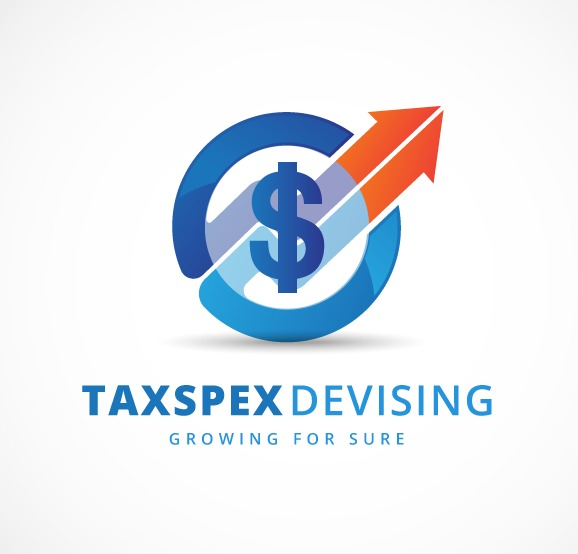
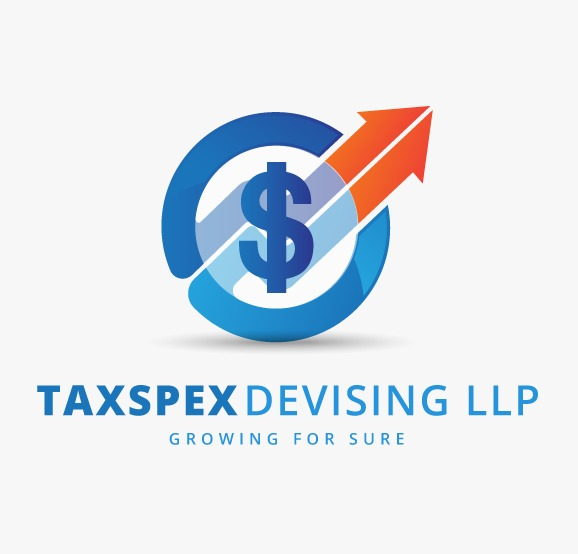
07/10/2021

diff --git a/incomeTax.html b/incomeTax.html
@@ -113,23 +113,22 @@
 
                         <div class="col-lg-4 col-md-6 d-flex align-items-stretch" data-aos="zoom-in">
                           <div class="member">
-                            <h3><i class="fa fa-desktop color"></i>&nbsp; TDS Return and TCS Return</h3>
+                            <h3><i class="fa fa-desktop color"></i>&nbsp; PF registration</h3>
                             <!-- Paragraph -->
                             <p>
-                              Tax Deducted at Source or TDS is a type of advance tax which is deducted from the earnings of an individual or an organization before the money is actually credited into that entity’s account, according to the Indian Taxation Code. The government is able to generate revenues by implementing the provisions of TDS on the earnings of individuals as well as businesses. Rules and regulations regarding TDS are controlled and governed under the Income Tax Act, 1961 by the Central Board of Direct Taxes (CBDT).As the name suggests, “Tax Deducted at Source” implies that the payee or the employer deducts the tax before making a payment to the receiver. Tax Deducted at Source is applicable on income earned regularly and also on the income earned occasionally or irregularly. Thus, TDS is applicable on various incomes, including, but not limited to Salary, Commission, Rent, Professional Fees and Interest.
+                              Employees Provident Fund is a scheme for the Indian Employees that is controlled by the Provident Funds and Miscellaneous Provisions Act,1952. The Employee Provident Fund is regulated under the umbrella of Employees Provident Fund Organization popularly known as EPFO. All establishments that have employed 20 or more than 20 employees can apply for PF registration in India. In some cases subject to the circumstances and the exemption establishments employing less than 20 are still eligible for PF registration. The Employee gets an amount that includes the self and employer’s contribution with interest on retirement or resignation.
                             </p>
                           </div>
                         </div>
-              
                       </div>
 
                       <div class="row">
                         <div class="col-lg-4 col-md-6 d-flex align-items-stretch" data-aos="zoom-in">
                           <div class="member">
-                            <h3><i class="fa fa-desktop color"></i>&nbsp; PF registration</h3>
+                            <h3><i class="fa fa-desktop color"></i>&nbsp; PF return</h3>
                             <!-- Paragraph -->
                             <p>
-                              Employees Provident Fund is a scheme for the Indian Employees that is controlled by the Provident Funds and Miscellaneous Provisions Act,1952. The Employee Provident Fund is regulated under the umbrella of Employees Provident Fund Organization popularly known as EPFO. All establishments that have employed 20 or more than 20 employees can apply for PF registration in India. In some cases subject to the circumstances and the exemption establishments employing less than 20 are still eligible for PF registration. The Employee gets an amount that includes the self and employer’s contribution with interest on retirement or resignation.
+                              Provident fund return must be filed by all entities having PF registration every month. PF return is due on the 25th of each month. Further, a final PF return is due on the 25th of April for the year ended on 31st March.
                             </p>
                           </div>
                         </div>
@@ -163,12 +162,12 @@
                             <!-- Paragraph -->
                             <p style="text-align: left;">
                               <b>A)</b> Intimation under Section 143(1)when the return is processed by the department then the intimation under sec. 143(1) is issued by CPC reflecting any of the three situations:If there is more tax liability to be paid, need to be paid within 30 days of receiving the demand.If any additional refund is determined.If the return filed matches with the assessment of AO and no action is required. Income is computed by the AO after making the following adjustments to the total income –Any arithmetical error.An incorrect claim.Dis-allowance of incorrectly loss or expenses.Any income not included.No intimation under this sub section shall be sent after the expiry of one year from the end of the financial year in which the return made.
-                              <br><b>B)</b> Notice under Section 139(9)– Defective Return –Return can be considered as defective by the Assessing officer. The defect can be are as follows: –Wrong ITR filed.Missing Information.Incomplete Return.If the AO consider the return as defective return, then he will intimate the same and gave the opportunity to rectify the defect within 15 days from the date of such intimation.If the defect is not rectified within the given period, then the return will be considered as invalid return and it will be deemed that no return has been filed.
-                              <br><b>C)</b> Notice under Section 142(1) – Inquiry before assessment –A notice under this section can be issued under these situations: –If the return has filed, but the Assessing officer requires additional information and documents for the purpose of making an assessment.If the return has not filed, but the Assessing officer wants the return to be filed.The basic purpose is to ask the details of the assessee before making the assessment. It is served to ask for the documents and details from the assessee and to take that case under assessment.AO may or may not start the assessment after compliance with this notice, depends upon the documents served by the assessee. If the AO is satisfied with the documents or return, he may not start the assessment process.To comply with this notice is mandatory even if the assessee thinks that the accounts or the documents required are irrelevant.
-                              <br><b>D)</b> Notice under Section 143(2) – Scrutiny Notice –If the Assessing Officer is not satisfied with the produced documents or with the responses of the assessee against income tax notice u/s 142(1) then you will get the Notice u/s 143(2) which means that your return has been selected for the detailed scrutiny by AO. AO may ask the assessee to either attend his office himself or produce the relevant supporting, and evidences in support of his claim.
-                              <br><b>E)</b> Notice under Section 148 – Income escaping assessment –If the AO has reason to believe that the assessee has not disclosed the income correctly or have paid the lower taxes or have not filed the return then in all cases it is termed as Income escaping assessment. Under these situations, AO assess or reassess the Income, as the case may be.To initiate the proceedings u/s 147, AO should serve a notice u/s 148.
-                              <br><b>F)</b> Notice under Section 156 – Notice of Demand –Where any tax, interest, penalty, fine or any other sum is payable in respect of any order passed, then the AO serve the notice u/s 156 to the assesse specifying the sum so payable.Assessee can deposit the amount payable within 30 days from the date of Income tax notice.There is no time limit to serve this notice.
-                              <br><b>G)</b> Notice under Section 245 – Set off Refunds against tax remaining payable –Notice u/s 245 is issued when the tax refund for an AY is adjusted against the tax demand dur from the assessee. There is no time limit to serve this notice.
+                              <br><br><b>B)</b> Notice under Section 139(9)– Defective Return –Return can be considered as defective by the Assessing officer. The defect can be are as follows: –Wrong ITR filed.Missing Information.Incomplete Return.If the AO consider the return as defective return, then he will intimate the same and gave the opportunity to rectify the defect within 15 days from the date of such intimation.If the defect is not rectified within the given period, then the return will be considered as invalid return and it will be deemed that no return has been filed.
+                              <br><br><b>C)</b> Notice under Section 142(1) – Inquiry before assessment –A notice under this section can be issued under these situations: –If the return has filed, but the Assessing officer requires additional information and documents for the purpose of making an assessment.If the return has not filed, but the Assessing officer wants the return to be filed.The basic purpose is to ask the details of the assessee before making the assessment. It is served to ask for the documents and details from the assessee and to take that case under assessment.AO may or may not start the assessment after compliance with this notice, depends upon the documents served by the assessee. If the AO is satisfied with the documents or return, he may not start the assessment process.To comply with this notice is mandatory even if the assessee thinks that the accounts or the documents required are irrelevant.
+                              <br><br><b>D)</b> Notice under Section 143(2) – Scrutiny Notice –If the Assessing Officer is not satisfied with the produced documents or with the responses of the assessee against income tax notice u/s 142(1) then you will get the Notice u/s 143(2) which means that your return has been selected for the detailed scrutiny by AO. AO may ask the assessee to either attend his office himself or produce the relevant supporting, and evidences in support of his claim.
+                              <br><br><b>E)</b> Notice under Section 148 – Income escaping assessment –If the AO has reason to believe that the assessee has not disclosed the income correctly or have paid the lower taxes or have not filed the return then in all cases it is termed as Income escaping assessment. Under these situations, AO assess or reassess the Income, as the case may be.To initiate the proceedings u/s 147, AO should serve a notice u/s 148.
+                              <br><br><b>F)</b> Notice under Section 156 – Notice of Demand –Where any tax, interest, penalty, fine or any other sum is payable in respect of any order passed, then the AO serve the notice u/s 156 to the assesse specifying the sum so payable.Assessee can deposit the amount payable within 30 days from the date of Income tax notice.There is no time limit to serve this notice.
+                              <br><br><b>G)</b> Notice under Section 245 – Set off Refunds against tax remaining payable –Notice u/s 245 is issued when the tax refund for an AY is adjusted against the tax demand dur from the assessee. There is no time limit to serve this notice.
                               </p>
                           </div>
                         </div>
@@ -190,7 +189,7 @@
   
             <div class="col-lg-4 col-md-6">
               <div class="footer-info">
-                <h3>Tax Spex</h3>
+                <h3>Tax Spex Devising (LLP)</h3>
                 <p>
                   Telangkhedi, Ramnagar,<br>
                   Nagpur 440010<br><br>
@@ -198,11 +197,9 @@
                   <strong>Email:</strong> info@taxspexdevising.com<br>
                 </p>
                 <div class="social-links mt-3">
-                  <a href="#" class="twitter"><i class="bx bxl-twitter"></i></a>
-                  <a href="#" class="facebook"><i class="bx bxl-facebook"></i></a>
-                  <a href="#" class="instagram"><i class="bx bxl-instagram"></i></a>
-                  <a href="#" class="google-plus"><i class="bx bxl-skype"></i></a>
-                  <a href="#" class="linkedin"><i class="bx bxl-linkedin"></i></a>
+                  <a href="https://www.facebook.com/sharer/sharer.php?u=http://taxspexdevising.com/" target="_blank" class="facebook"><i class="bx bxl-facebook"></i></a>
+                  <a href="https://www.instagram.com/?url=http://taxspexdevising.com/" target="_blank" class="instagram"><i class="bx bxl-instagram"></i></a>
+                  <a href="whatsapp://send?text=http://taxspexdevising.com/" target="_blank" action="share/whatsapp/share"  class="google-plus"><i class="bx bxl-whatsapp"></i></a>
                 </div>
               </div>
             </div>

diff --git a/index.html b/index.html
@@ -33,7 +33,7 @@
     <div class="container d-flex align-items-center justify-content-between">
 
       <h1 class="logo">
-        <img src="assets/img/mainlogo.jpg" alt="" class="img-fluid" />&nbsp;
+        <img src="assets/img/mainlogo.jpeg" alt="" class="img-fluid" />&nbsp;
         <img src="assets/img/taxlogo.jpeg" alt="" class="img-fluid" />
         <!-- <a href="index.html">TaxSpex Devising</a></h1> -->
       <!-- Uncomment below if you prefer to use an image logo -->
@@ -79,7 +79,7 @@
   <section id="hero" class="d-flex align-items-center">
     <div class="container position-relative" data-aos="fade-up" data-aos-delay="500">
       <h1>Get Your Business Registered Today</h1>
-      <h2>taxspexdevising.com Has been giving best consulation to top INDIA's Finance companies since 2018</h2>
+      <h2>TaxSpexDevising(LLP) Has been giving best consulation to top Finance companies since 2018</h2>
       <!-- <a href="#about" class="btn-get-started scrollto">Get Started</a> -->
     </div>
   </section>
@@ -165,7 +165,7 @@ individuals such as tax filing and legal services.
     <!-- End Why Us Section -->
 
     <!-- ======= Clients Section ======= -->
-    <section id="clients" class="clients">
+    <!-- <section id="clients" class="clients">
       <div class="container" data-aos="zoom-in">
 
         <div class="row d-flex align-items-center">
@@ -197,7 +197,7 @@ individuals such as tax filing and legal services.
         </div>
 
       </div>
-    </section>
+    </section> -->
     <!-- End Clients Section -->
 
     <!-- ======= Cta Section ======= -->
@@ -245,7 +245,7 @@ individuals such as tax filing and legal services.
 
           <div class="col-lg-4 col-md-6 d-flex align-items-stretch" data-aos="zoom-in">
             <div class="member">
-              <img src="assets/img/team/team-3.jpg" alt="">
+              <img src="assets/img/team/AbhijeetK.jpg" alt="">
               <h4>Abhijeet B. Karmore</h4>
               <span>(  LLB  )</span>
               <span><b>Company Secretary</b></span>
@@ -263,7 +263,7 @@ individuals such as tax filing and legal services.
 
           <div class="col-lg-4 col-md-6 d-flex align-items-stretch" data-aos="zoom-in">
             <div class="member">
-              <img src="assets/img/team/team-2.jpg" alt="">
+              <img src="assets/img/team/SayliK.png" alt="">
               <h4>Sayli Karmore</h4>
               <span>(  B.com  )</span>
               <span><b>Chartered Accountant</b></span>
@@ -371,7 +371,7 @@ individuals such as tax filing and legal services.
 
           <div class="col-lg-4 col-md-6">
             <div class="footer-info">
-              <h3>Tax Spex</h3>
+              <h3>Tax Spex Devising (LLP)</h3>
               <p>
                 Telangkhedi, Ramnagar,<br>
                 Nagpur 440010<br><br>
@@ -379,11 +379,9 @@ individuals such as tax filing and legal services.
                 <strong>Email:</strong> info@taxspexdevising.com<br>
               </p>
               <div class="social-links mt-3">
-                <a href="#" class="twitter"><i class="bx bxl-twitter"></i></a>
-                <a href="#" class="facebook"><i class="bx bxl-facebook"></i></a>
-                <a href="#" class="instagram"><i class="bx bxl-instagram"></i></a>
-                <a href="#" class="google-plus"><i class="bx bxl-skype"></i></a>
-                <a href="#" class="linkedin"><i class="bx bxl-linkedin"></i></a>
+                <a href="https://www.facebook.com/sharer/sharer.php?u=http://taxspexdevising.com/" target="_blank" class="facebook"><i class="bx bxl-facebook"></i></a>
+                <a href="https://www.instagram.com/?url=http://taxspexdevising.com/" target="_blank" class="instagram"><i class="bx bxl-instagram"></i></a>
+                <a href="whatsapp://send?text=http://taxspexdevising.com/" target="_blank" action="share/whatsapp/share"  class="google-plus"><i class="bx bxl-whatsapp"></i></a>
               </div>
             </div>
           </div>

diff --git a/other.html b/other.html
@@ -98,7 +98,7 @@
               
                         <div class="col-lg-6 col-md-6 d-flex align-items-stretch" data-aos="zoom-in">
                           <div class="member">
-                            <h3><i class="fa fa-desktop color"></i>&nbsp; Legal Advisory for Individual and Company (Part 2)</h3>
+                            <h3><i class="fa fa-desktop color"></i>&nbsp; Legal Advisory for Individual and Company</h3>
                             <!-- Paragraph -->
                             <p>
                                 Legal Services are the services involving legal or law related matters like issue of legal opinion, filing, pleading and defending law suits etc. by a lawyer or attorney practicing law related services and we also provide arbitrator and consultation services and our services include Criminal Law, Corporate Law, Civil Law
@@ -122,7 +122,7 @@
   
             <div class="col-lg-4 col-md-6">
               <div class="footer-info">
-                <h3>Tax Spex</h3>
+                <h3>Tax Spex Devising (LLP)</h3>
                 <p>
                   Telangkhedi, Ramnagar,<br>
                   Nagpur 440010<br><br>
@@ -130,11 +130,9 @@
                   <strong>Email:</strong> info@taxspexdevising.com<br>
                 </p>
                 <div class="social-links mt-3">
-                  <a href="#" class="twitter"><i class="bx bxl-twitter"></i></a>
-                  <a href="#" class="facebook"><i class="bx bxl-facebook"></i></a>
-                  <a href="#" class="instagram"><i class="bx bxl-instagram"></i></a>
-                  <a href="#" class="google-plus"><i class="bx bxl-skype"></i></a>
-                  <a href="#" class="linkedin"><i class="bx bxl-linkedin"></i></a>
+                  <a href="https://www.facebook.com/sharer/sharer.php?u=http://taxspexdevising.com/" target="_blank" class="facebook"><i class="bx bxl-facebook"></i></a>
+                  <a href="https://www.instagram.com/?url=http://taxspexdevising.com/" target="_blank" class="instagram"><i class="bx bxl-instagram"></i></a>
+                  <a href="whatsapp://send?text=http://taxspexdevising.com/" target="_blank" action="share/whatsapp/share"  class="google-plus"><i class="bx bxl-whatsapp"></i></a>
                 </div>
               </div>
             </div>

diff --git a/bussiness.html b/bussiness.html
@@ -265,7 +265,7 @@
   
             <div class="col-lg-4 col-md-6">
               <div class="footer-info">
-                <h3>Tax Spex</h3>
+                <h3>Tax Spex Devising (LLP)</h3>
                 <p>
                   Telangkhedi, Ramnagar,<br>
                   Nagpur 440010<br><br>
@@ -273,11 +273,9 @@
                   <strong>Email:</strong> info@taxspexdevising.com<br>
                 </p>
                 <div class="social-links mt-3">
-                  <a href="#" class="twitter"><i class="bx bxl-twitter"></i></a>
-                  <a href="#" class="facebook"><i class="bx bxl-facebook"></i></a>
-                  <a href="#" class="instagram"><i class="bx bxl-instagram"></i></a>
-                  <a href="#" class="google-plus"><i class="bx bxl-skype"></i></a>
-                  <a href="#" class="linkedin"><i class="bx bxl-linkedin"></i></a>
+                  <a href="https://www.facebook.com/sharer/sharer.php?u=http://taxspexdevising.com/" target="_blank" class="facebook"><i class="bx bxl-facebook"></i></a>
+                  <a href="https://www.instagram.com/?url=http://taxspexdevising.com/" target="_blank" class="instagram"><i class="bx bxl-instagram"></i></a>
+                  <a href="whatsapp://send?text=http://taxspexdevising.com/" target="_blank" action="share/whatsapp/share"  class="google-plus"><i class="bx bxl-whatsapp"></i></a>
                 </div>
               </div>
             </div>

diff --git a/compliance.html b/compliance.html
@@ -217,7 +217,7 @@
   
             <div class="col-lg-4 col-md-6">
               <div class="footer-info">
-                <h3>Tax Spex</h3>
+                <h3>Tax Spex Devising (LLP)</h3>
                 <p>
                   Telangkhedi, Ramnagar,<br>
                   Nagpur 440010<br><br>
@@ -225,11 +225,9 @@
                   <strong>Email:</strong> info@taxspexdevising.com<br>
                 </p>
                 <div class="social-links mt-3">
-                  <a href="#" class="twitter"><i class="bx bxl-twitter"></i></a>
-                  <a href="#" class="facebook"><i class="bx bxl-facebook"></i></a>
-                  <a href="#" class="instagram"><i class="bx bxl-instagram"></i></a>
-                  <a href="#" class="google-plus"><i class="bx bxl-skype"></i></a>
-                  <a href="#" class="linkedin"><i class="bx bxl-linkedin"></i></a>
+                  <a href="https://www.facebook.com/sharer/sharer.php?u=http://taxspexdevising.com/" target="_blank" class="facebook"><i class="bx bxl-facebook"></i></a>
+                  <a href="https://www.instagram.com/?url=http://taxspexdevising.com/" target="_blank" class="instagram"><i class="bx bxl-instagram"></i></a>
+                  <a href="whatsapp://send?text=http://taxspexdevising.com/" target="_blank" action="share/whatsapp/share"  class="google-plus"><i class="bx bxl-whatsapp"></i></a>
                 </div>
               </div>
             </div>

diff --git a/insurance.html b/insurance.html
@@ -135,7 +135,7 @@
   
             <div class="col-lg-4 col-md-6">
               <div class="footer-info">
-                <h3>Tax Spex</h3>
+                <h3>Tax Spex Devising (LLP)</h3>
                 <p>
                   Telangkhedi, Ramnagar,<br>
                   Nagpur 440010<br><br>
@@ -143,11 +143,9 @@
                   <strong>Email:</strong> info@taxspexdevising.com<br>
                 </p>
                 <div class="social-links mt-3">
-                  <a href="#" class="twitter"><i class="bx bxl-twitter"></i></a>
-                  <a href="#" class="facebook"><i class="bx bxl-facebook"></i></a>
-                  <a href="#" class="instagram"><i class="bx bxl-instagram"></i></a>
-                  <a href="#" class="google-plus"><i class="bx bxl-skype"></i></a>
-                  <a href="#" class="linkedin"><i class="bx bxl-linkedin"></i></a>
+                  <a href="https://www.facebook.com/sharer/sharer.php?u=http://taxspexdevising.com/" target="_blank" class="facebook"><i class="bx bxl-facebook"></i></a>
+                  <a href="https://www.instagram.com/?url=http://taxspexdevising.com/" target="_blank" class="instagram"><i class="bx bxl-instagram"></i></a>
+                  <a href="whatsapp://send?text=http://taxspexdevising.com/" target="_blank" action="share/whatsapp/share"  class="google-plus"><i class="bx bxl-whatsapp"></i></a>
                 </div>
               </div>
             </div>

diff --git a/properties.html b/properties.html
@@ -135,7 +135,7 @@
   
             <div class="col-lg-4 col-md-6">
               <div class="footer-info">
-                <h3>Tax Spex</h3>
+                <h3>Tax Spex Devising (LLP)</h3>
                 <p>
                   Telangkhedi, Ramnagar,<br>
                   Nagpur 440010<br><br>
@@ -143,11 +143,9 @@
                   <strong>Email:</strong> info@taxspexdevising.com<br>
                 </p>
                 <div class="social-links mt-3">
-                  <a href="#" class="twitter"><i class="bx bxl-twitter"></i></a>
-                  <a href="#" class="facebook"><i class="bx bxl-facebook"></i></a>
-                  <a href="#" class="instagram"><i class="bx bxl-instagram"></i></a>
-                  <a href="#" class="google-plus"><i class="bx bxl-skype"></i></a>
-                  <a href="#" class="linkedin"><i class="bx bxl-linkedin"></i></a>
+                  <a href="https://www.facebook.com/sharer/sharer.php?u=http://taxspexdevising.com/" target="_blank" class="facebook"><i class="bx bxl-facebook"></i></a>
+                  <a href="https://www.instagram.com/?url=http://taxspexdevising.com/" target="_blank" class="instagram"><i class="bx bxl-instagram"></i></a>
+                  <a href="whatsapp://send?text=http://taxspexdevising.com/" target="_blank" action="share/whatsapp/share"  class="google-plus"><i class="bx bxl-whatsapp"></i></a>
                 </div>
               </div>
             </div>

diff --git a/serviceTax.html b/serviceTax.html
@@ -134,7 +134,7 @@
   
             <div class="col-lg-4 col-md-6">
               <div class="footer-info">
-                <h3>Tax Spex</h3>
+                <h3>Tax Spex Devising (LLP)</h3>
                 <p>
                   Telangkhedi, Ramnagar,<br>
                   Nagpur 440010<br><br>
@@ -142,11 +142,9 @@
                   <strong>Email:</strong> info@taxspexdevising.com<br>
                 </p>
                 <div class="social-links mt-3">
-                  <a href="#" class="twitter"><i class="bx bxl-twitter"></i></a>
-                  <a href="#" class="facebook"><i class="bx bxl-facebook"></i></a>
-                  <a href="#" class="instagram"><i class="bx bxl-instagram"></i></a>
-                  <a href="#" class="google-plus"><i class="bx bxl-skype"></i></a>
-                  <a href="#" class="linkedin"><i class="bx bxl-linkedin"></i></a>
+                  <a href="https://www.facebook.com/sharer/sharer.php?u=http://taxspexdevising.com/" target="_blank" class="facebook"><i class="bx bxl-facebook"></i></a>
+                  <a href="https://www.instagram.com/?url=http://taxspexdevising.com/" target="_blank" class="instagram"><i class="bx bxl-instagram"></i></a>
+                  <a href="whatsapp://send?text=http://taxspexdevising.com/" target="_blank" action="share/whatsapp/share"  class="google-plus"><i class="bx bxl-whatsapp"></i></a>
                 </div>
               </div>
             </div>

diff --git a/audit.html b/audit.html
@@ -217,7 +217,7 @@
 
           <div class="col-lg-4 col-md-6">
             <div class="footer-info">
-              <h3>Tax Spex</h3>
+              <h3>Tax Spex Devising (LLP)</h3>
               <p>
                 Telangkhedi, Ramnagar,<br>
                 Nagpur 440010<br><br>
@@ -225,11 +225,9 @@
                 <strong>Email:</strong> info@taxspexdevising.com<br>
               </p>
               <div class="social-links mt-3">
-                <a href="#" class="twitter"><i class="bx bxl-twitter"></i></a>
-                <a href="#" class="facebook"><i class="bx bxl-facebook"></i></a>
-                <a href="#" class="instagram"><i class="bx bxl-instagram"></i></a>
-                <a href="#" class="google-plus"><i class="bx bxl-skype"></i></a>
-                <a href="#" class="linkedin"><i class="bx bxl-linkedin"></i></a>
+                <a href="https://www.facebook.com/sharer/sharer.php?u=http://taxspexdevising.com/" target="_blank" class="facebook"><i class="bx bxl-facebook"></i></a>
+                <a href="https://www.instagram.com/?url=http://taxspexdevising.com/" target="_blank" class="instagram"><i class="bx bxl-instagram"></i></a>
+                <a href="whatsapp://send?text=http://taxspexdevising.com/" target="_blank" action="share/whatsapp/share"  class="google-plus"><i class="bx bxl-whatsapp"></i></a>
               </div>
             </div>
           </div>

diff --git a/inner-page.html b/inner-page.html
@@ -123,7 +123,7 @@
 
           <div class="col-lg-4 col-md-6">
             <div class="footer-info">
-              <h3>Tax Spex</h3>
+              <h3>Tax Spex Devising (LLP)</h3>
               <p>
                 Telangkhedi, Ramnagar,<br>
                 Nagpur 440010<br><br>
@@ -131,11 +131,9 @@
                 <strong>Email:</strong> info@taxspexdevising.com<br>
               </p>
               <div class="social-links mt-3">
-                <a href="#" class="twitter"><i class="bx bxl-twitter"></i></a>
-                <a href="#" class="facebook"><i class="bx bxl-facebook"></i></a>
-                <a href="#" class="instagram"><i class="bx bxl-instagram"></i></a>
-                <a href="#" class="google-plus"><i class="bx bxl-skype"></i></a>
-                <a href="#" class="linkedin"><i class="bx bxl-linkedin"></i></a>
+                <a href="https://www.facebook.com/sharer/sharer.php?u=http://taxspexdevising.com/" target="_blank" class="facebook"><i class="bx bxl-facebook"></i></a>
+                <a href="https://www.instagram.com/?url=http://taxspexdevising.com/" target="_blank" class="instagram"><i class="bx bxl-instagram"></i></a>
+                <a href="whatsapp://send?text=http://taxspexdevising.com/" target="_blank" action="share/whatsapp/share"  class="google-plus"><i class="bx bxl-whatsapp"></i></a>
               </div>
             </div>
           </div>

diff --git a/portfolio-details.html b/portfolio-details.html
@@ -166,7 +166,7 @@
 
           <div class="col-lg-4 col-md-6">
             <div class="footer-info">
-              <h3>Tax Spex</h3>
+              <h3>Tax Spex Devising (LLP)</h3>
               <p>
                 Telangkhedi, Ramnagar,<br>
                 Nagpur 440010<br><br>
@@ -174,11 +174,9 @@
                 <strong>Email:</strong> info@taxspexdevising.com<br>
               </p>
               <div class="social-links mt-3">
-                <a href="#" class="twitter"><i class="bx bxl-twitter"></i></a>
-                <a href="#" class="facebook"><i class="bx bxl-facebook"></i></a>
-                <a href="#" class="instagram"><i class="bx bxl-instagram"></i></a>
-                <a href="#" class="google-plus"><i class="bx bxl-skype"></i></a>
-                <a href="#" class="linkedin"><i class="bx bxl-linkedin"></i></a>
+                <a href="https://www.facebook.com/sharer/sharer.php?u=http://taxspexdevising.com/" target="_blank" class="facebook"><i class="bx bxl-facebook"></i></a>
+                <a href="https://www.instagram.com/?url=http://taxspexdevising.com/" target="_blank" class="instagram"><i class="bx bxl-instagram"></i></a>
+                <a href="whatsapp://send?text=http://taxspexdevising.com/" target="_blank" action="share/whatsapp/share"  class="google-plus"><i class="bx bxl-whatsapp"></i></a>
               </div>
             </div>
           </div>
